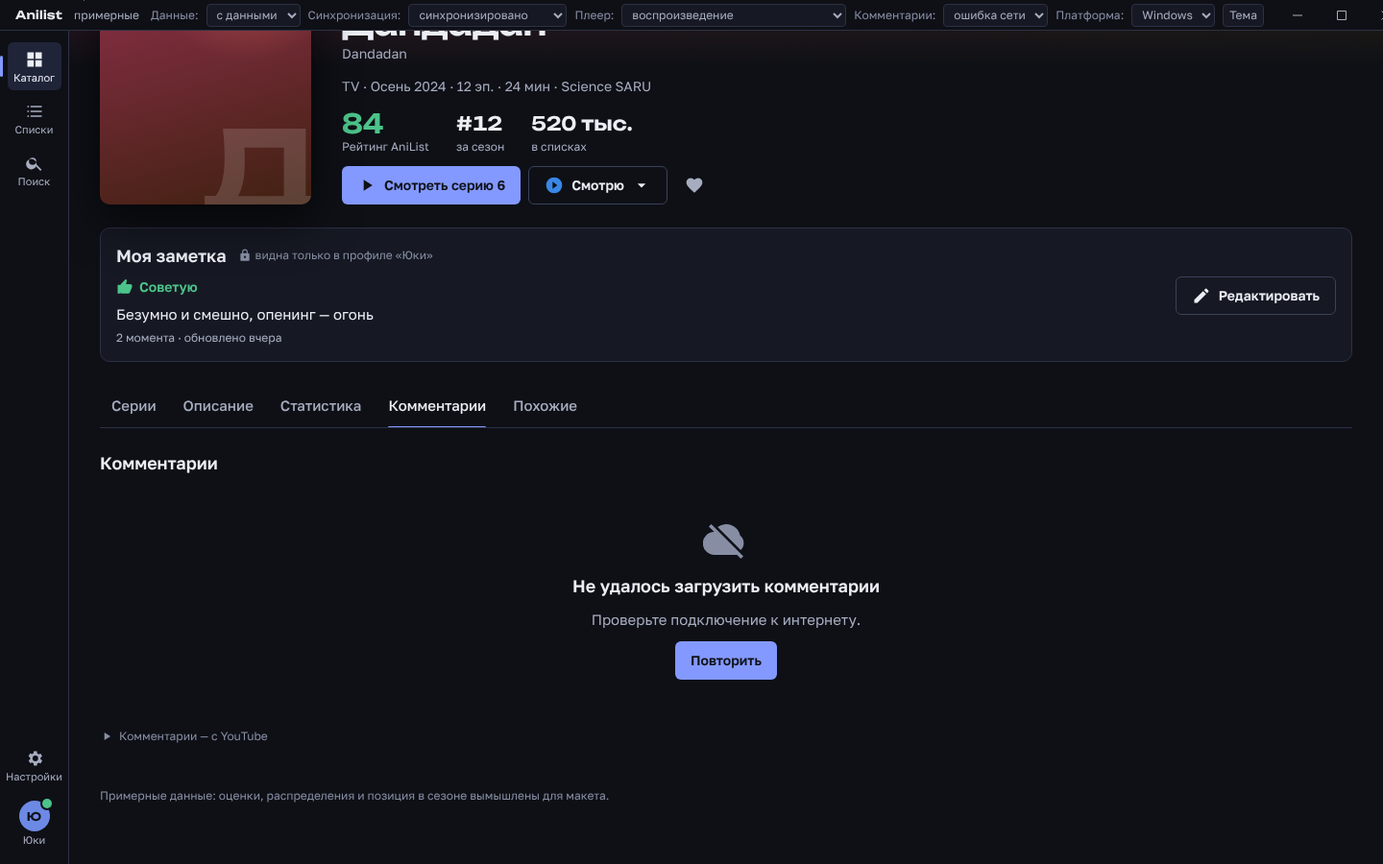
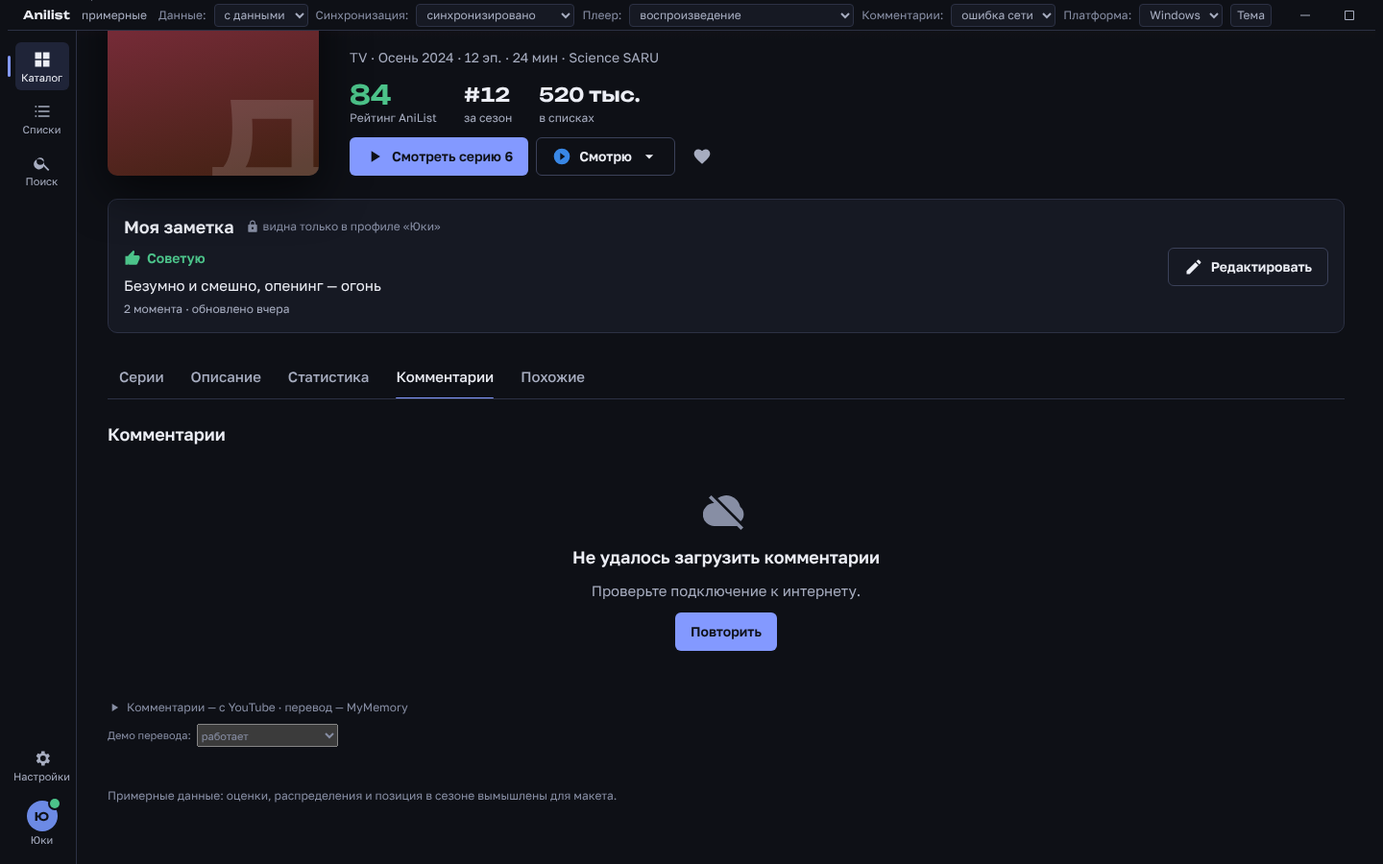
design: перевод комментариев YouTube на русский; viewport в прототипе для открытия напрямую на телефоне
Claude-Session: https://claude.ai/code/session_014SLhsG472wUjxdzf1dwfhU

diff --git a/design/prototype/index.html b/design/prototype/index.html
@@ -1,5 +1,6 @@
 <title>Ai — прототип</title>
 <meta name="claude:viewport-fit-sides" content="cover">
+<meta name="viewport" content="width=device-width, initial-scale=1, viewport-fit=cover">
 <link rel="preconnect" href="https://fonts.googleapis.com">
 <link rel="preconnect" href="https://fonts.gstatic.com" crossorigin>
 <link rel="stylesheet" href="https://fonts.googleapis.com/css2?family=Golos+Text:wght@400;500;600&family=Unbounded:wght@500;600&display=swap">
@@ -551,11 +552,28 @@ h3 { font: 600 18px/24px var(--f-text); margin: 0; }
 .ylink:hover { text-decoration: underline; }
 .cmore { margin-top: 12px; }
 .spin.sm { width: 16px; height: 16px; border-width: 2px; }
+.ltag { font-size: 11px; padding: 0 6px; border-radius: var(--r-pill); background: var(--s2); color: var(--fg2); }
+.tr-btn { color: var(--accent); }
+.tr-btn svg, .tr-label svg { width: 16px; height: 16px; }
+.tr-box { display: grid; gap: 6px; justify-items: start; padding: 10px 12px; border-radius: var(--r-sm); background: var(--s2); max-width: 65ch; font-size: 14px; }
+.tr-box p { margin: 0; color: var(--fg); }
+.tr-box .more { margin-left: -6px; }
+.tr-label { display: inline-flex; gap: 6px; align-items: center; font-size: 12px; color: var(--fg2); }
+.tr-box.warn { display: flex; align-items: center; color: var(--warn); }
+.tr-box.err { display: flex; align-items: center; gap: 8px; flex-wrap: wrap; color: var(--bad); }
+.tr-box.warn svg, .tr-box.err svg { width: 18px; height: 18px; flex: none; }
+.pbar { display: block; width: 100%; height: 6px; border-radius: 3px; background: var(--s3); overflow: hidden; }
+.pbar i { display: block; height: 100%; background: var(--accent); transition: width .25s var(--ease); }
+.tr-notice { display: flex; gap: 10px; align-items: center; flex-wrap: wrap; padding: 12px 14px; margin-bottom: 12px; border: 1px solid var(--border-strong); border-radius: var(--r-md); background: var(--s2); max-width: 760px; }
+.tr-notice > span { flex: 1 1 260px; }
+.tr-notice svg { width: 18px; height: 18px; color: var(--fg2); }
+.tr-demo { display: flex; gap: 6px; align-items: center; margin-top: 6px; }
+.tr-demo select { font-size: 11px; height: 24px; }
 .com-src { display: flex; gap: 6px; align-items: center; font-size: 12px; color: var(--fg3); margin: 16px 0 0; }
 .com-src svg { width: 14px; height: 14px; }
 .state.small { padding: 32px 16px; }
 .state .btn svg { width: 18px; height: 18px; color: inherit; }
-.player .ytcom { --bg:#0E1016; --s1:#161923; --s2:#1E2230; --s3:#272C3D; --border:#2C3144; --border-strong:#3B4159; --fg:#ECEEF5; --fg2:#A7ADC0; --fg3:#878EA4; --accent:#8399FF; --accent-soft:#8399FF26; --skel:#1E2230; --skel-shine:#272C3D; --hover:#ECEEF50F; color-scheme: dark; color: var(--fg); background: var(--s1); grid-column: 1; overflow-y: auto; padding: 12px max(16px, env(safe-area-inset-right, 0px)) 12px max(16px, env(safe-area-inset-left, 0px)); border-top: 1px solid #FFFFFF14; }
+.player .ytcom { --bg:#0E1016; --s1:#161923; --s2:#1E2230; --s3:#272C3D; --border:#2C3144; --border-strong:#3B4159; --fg:#ECEEF5; --fg2:#A7ADC0; --fg3:#878EA4; --accent:#8399FF; --accent-soft:#8399FF26; --good:#4CC38A; --warn:#E3A73B; --bad:#F27B7B; --skel:#1E2230; --skel-shine:#272C3D; --hover:#ECEEF50F; color-scheme: dark; color: var(--fg); background: var(--s1); grid-column: 1; overflow-y: auto; padding: 12px max(16px, env(safe-area-inset-right, 0px)) 12px max(16px, env(safe-area-inset-left, 0px)); border-top: 1px solid #FFFFFF14; }
 .player.yt.has-com { grid-template-rows: auto minmax(0, 1fr) auto minmax(0, 42%); }
 .player.yt.has-com.has-eps .eppanel { grid-row: 2 / 5; }
 .app.m .player.yt.has-com { grid-template-rows: auto minmax(0, 1fr) auto minmax(0, 50%); }
@@ -844,6 +862,7 @@ const I = {
   edit:'M3 17.2V21h3.8l11-11-3.8-3.8zM20.7 7a1 1 0 0 0 0-1.4l-2.3-2.3a1 1 0 0 0-1.4 0l-1.8 1.8 3.8 3.8z',
   dash:'M5 11h14v2H5z',
   chat:'M20 2H4a2 2 0 0 0-2 2v18l4-4h14a2 2 0 0 0 2-2V4a2 2 0 0 0-2-2zM6 9h12v2H6zm8 5H6v-2h8zm4-6H6V6h12z',
+  translate:'M12.9 15.1 10.3 12.6v-.1A17.6 17.6 0 0 0 14 6h3V4h-7V2H8v2H1v2h11.2A15.7 15.7 0 0 1 9 11.4 15.6 15.6 0 0 1 6.7 8H4.7a17.6 17.6 0 0 0 3 4.6L2.6 17.6 4 19l5-5 3.1 3.1zM18.5 10h-2L12 22h2l1.1-3h4.8l1.1 3h2zm-2.6 7 1.6-4.3 1.6 4.3z',
   full_exit:'M5 16h3v3h2v-5H5zm3-8H5v2h5V5H8zm6 11h2v-3h3v-2h-5zm2-11V5h-2v5h5V8z',
   heart:'M12 21.4 10.6 20C5.4 15.4 2 12.3 2 8.5A5.4 5.4 0 0 1 7.5 3 6 6 0 0 1 12 5a6 6 0 0 1 4.5-2A5.4 5.4 0 0 1 22 8.5c0 3.8-3.4 6.9-8.6 11.5z',
   plus:'M19 13h-6v6h-2v-6H5v-2h6V5h2v6h6z', skip:'M4 18l8.5-6L4 6zm9-12v12l8.5-6z',
@@ -1160,29 +1179,67 @@ const COMMENTS = [
   { a:'Тимур', h:100, d:'12 часов назад', likes:12, top:3, t:'Субтитры отличные, спасибо переводчикам.' },
   { a:'lofi_lena', h:310, d:'1 час назад', likes:4, top:1, t:'Возвращаюсь пересматривать этот момент уже третий раз.' },
 ];
+// Комментарии на других языках: перевод на русский по кнопке (тексты и переводы примерные)
+COMMENTS.push(
+  { a:'Hiro_88', h:10, d:'неделю назад', likes:980, top:11, lang:'ja', t:'オープニングが最高すぎて毎回飛ばせない。作画も音楽も完璧。', tr:'Опенинг настолько хорош, что каждый раз не могу его пропустить. И рисовка, и музыка — идеальны.' },
+  { a:'sam_watches', h:190, d:'неделю назад', likes:540, top:12, lang:'en', t:'The animation in the chase scene is unreal. I had to rewatch it three times to catch everything.', tr:'Анимация в сцене погони нереальная. Пришлось пересмотреть три раза, чтобы всё уловить.' },
+  { a:'lucia.anime', h:300, d:'8 дней назад', likes:221, top:13, lang:'es', t:'¡No puedo esperar al próximo episodio, qué locura!', tr:'Не могу дождаться следующей серии, это безумие!' },
+);
+const LANG_FROM = { en:'английского', ja:'японского', es:'испанского' };
+const LANG_TAG = { en:'англ.', ja:'яп.', es:'исп.' };
+// Состояние перевода по комментарию: loading | pack | packing | done | error | limit
+const TR = { st:{}, showOrig:new Set(), consent:false, pending:null, pack:{} };
 const MORE = [
   { a:'Сергей', h:170, d:'неделю назад', likes:96, top:9, t:'Главное — не читать комментарии до просмотра :)' },
   { a:'nekoyama', h:240, d:'неделю назад', likes:51, top:10, t:'Саундтрек уже в плейлисте.' },
 ];
-const C = { sort:'top', open:new Set(), more:false, loadingMore:false };
+const C = { trDemo:'ok', sort:'top', open:new Set(), more:false, loadingMore:false };
 function commentsView() {
   const st = $('#demoComments').value;
-  const head = `<div class="com-head"><h3>Комментарии${st === 'ok' ? ' <span class="count">' + (C.more ? 10 : 8) + ' из 1 284</span>' : ''}</h3>
+  const head = `<div class="com-head"><h3>Комментарии${st === 'ok' ? ' <span class="count">' + (COMMENTS.length + (C.more ? MORE.length : 0)) + ' из 1 284</span>' : ''}</h3>
     ${st === 'ok' || st === 'loading' ? `<div class="seg" role="group" aria-label="Сортировка комментариев"><button type="button" data-csort="top" aria-pressed="${C.sort === 'top'}">По популярности</button><button type="button" data-csort="new" aria-pressed="${C.sort === 'new'}">По времени</button></div>` : ''}</div>`;
-  const foot = `<p class="com-src">${ic('play')}Комментарии — с YouTube</p>`;
+  const foot = `<p class="com-src">${ic('play')}Комментарии — с YouTube${isMob() ? ' · перевод выполняется на устройстве' : ' · перевод — MyMemory'}</p>
+    <label class="cap demo-fail tr-demo">Демо перевода: <select id="trDemo"><option value="ok"${C.trDemo === 'ok' ? ' selected' : ''}>работает</option><option value="pack"${C.trDemo === 'pack' ? ' selected' : ''}>нужен пакет (телефон)</option><option value="limit"${C.trDemo === 'limit' ? ' selected' : ''}>лимит исчерпан (ПК)</option><option value="error"${C.trDemo === 'error' ? ' selected' : ''}>ошибка сети</option></select></label>`;
+  const notice = !isMob() && TR.pending && !TR.consent ? `<div class="tr-notice" role="alert">${ic('lock')}<span>Текст комментария отправляется на сервер MyMemory для перевода.</span><button class="btn btn-filled" type="button" data-act="trOk">Понятно</button><button class="btn btn-text" type="button" data-act="trNo">Не переводить</button></div>` : '';
   if (st === 'loading') return head + `<div class="com-list" aria-busy="true">${Array.from({length:4}, () => `<div class="com skel-row"><span class="skel av"></span><div style="display:grid;gap:6px;flex:1"><span class="skel" style="height:12px;width:30%"></span><span class="skel" style="height:12px;width:90%"></span><span class="skel" style="height:12px;width:70%"></span></div></div>`).join('')}</div>` + foot;
   if (st === 'empty') return head + `<div class="state small">${ic('chat')}<h3>Комментариев пока нет</h3><div>Будьте первым — комментарии пишутся на YouTube.</div><a class="btn btn-outline" href="https://www.youtube.com/" target="_blank" rel="noopener" style="text-decoration:none">${ic('ext')}Открыть на YouTube</a></div>` + foot;
   if (st === 'off') return head + `<div class="state small">${ic('DROPPED')}<h3>Комментарии отключены для этого видео</h3><div>Так решил правообладатель на YouTube.</div></div>` + foot;
   if (st === 'error') return head + `<div class="state small">${ic('cloud_off')}<h3>Не удалось загрузить комментарии</h3><div>Проверьте подключение к интернету.</div><button class="btn btn-filled" type="button" data-act="cRetry">Повторить</button></div>` + foot;
   // «По времени»: top — порядковый номер от самого нового
   const list = COMMENTS.concat(C.more ? MORE : []).slice().sort((x, y) => C.sort === 'top' ? y.likes - x.likes : x.top - y.top);
-  return head + `<div class="com-list">${list.map((c, i) => { const id = c.a, open = C.open.has(id);
+  return head + notice + `<div class="com-list">${list.map((c, i) => { const id = c.a, open = C.open.has(id);
     return `<article class="com"><span class="av" style="background:hsl(${c.h} 55% 55%)" aria-hidden="true">${esc(c.a[0].toUpperCase())}</span>
-      <div class="cbody"><div class="cmeta"><b>${esc(c.a)}</b><span>${esc(c.d)}</span></div>
-        <p class="ctext${open ? ' open' : ''}" id="ct-${i}">${esc(c.t)}</p>
+      <div class="cbody"><div class="cmeta"><b>${esc(c.a)}</b><span>${esc(c.d)}</span>${c.lang ? `<span class="ltag" title="Язык комментария">${LANG_TAG[c.lang]}</span>` : ''}</div>
+        ${c.lang && TR.st[id] === 'done' && !TR.showOrig.has(id) ? '' : `<p class="ctext${open ? ' open' : ''}" id="ct-${i}" ${c.lang ? `lang="${c.lang}"` : ''}>${esc(c.t)}</p>`}
+        ${c.lang ? trBlock(c) : ''}
         ${c.t.length > 140 ? `<button class="btn btn-text more" type="button" data-cmore="${esc(id)}" aria-expanded="${open}" aria-controls="ct-${i}">${open ? 'Свернуть' : 'Ещё'}</button>` : ''}
         <div class="cacts"><span class="likes">${ic('thumb_up')}<span class="num">${c.likes.toLocaleString('ru-RU')}</span></span><a class="ylink" href="https://www.youtube.com/" target="_blank" rel="noopener">${ic('ext')}Открыть на YouTube</a></div></div></article>`; }).join('')}</div>
     ${C.more ? '' : `<button class="btn btn-outline cmore" type="button" data-act="cMore" ${C.loadingMore ? 'disabled' : ''}>${C.loadingMore ? '<span class="spin sm"></span>Загружаем…' : 'Показать ещё'}</button>`}` + foot;
+}
+function trBlock(c) {
+  const id = c.a, st = TR.st[id], via = isMob() ? 'на устройстве' : 'MyMemory';
+  if (!st) return `<button class="btn btn-text more tr-btn" type="button" data-tr="${esc(id)}">${ic('translate')}Перевести на русский</button>`;
+  if (st === 'wait') return `<div class="tr-box cap">Ждём подтверждения выше…</div>`;
+  if (st === 'loading') return `<div class="tr-box" aria-busy="true"><span class="skel" style="height:12px;width:92%"></span><span class="skel" style="height:12px;width:64%"></span><span class="cap">Переводим с ${LANG_FROM[c.lang]}…</span></div>`;
+  if (st === 'done') return `<div class="tr-box done" lang="ru"><span class="tr-label">${ic('translate')}Перевод с ${LANG_FROM[c.lang]} · ${via}</span><p>${esc(c.tr)}</p>
+    <button class="btn btn-text more" type="button" data-trorig="${esc(id)}" aria-pressed="${TR.showOrig.has(id)}">${TR.showOrig.has(id) ? 'Скрыть оригинал' : 'Показать оригинал'}</button></div>`;
+  if (st === 'pack') return `<div class="tr-box"><span>Для перевода с ${LANG_FROM[c.lang]} нужен языковой пакет на устройстве (≈ 30 МБ). Перевод выполняется на устройстве, текст никуда не отправляется.</span><button class="btn btn-outline" type="button" data-trpack="${esc(id)}">${ic('cloud_up')}Скачать пакет перевода</button></div>`;
+  if (st === 'packing') { const v = TR.pack[c.lang] || 0; return `<div class="tr-box"><span>Скачиваем пакет «${LANG_TAG[c.lang]} → рус.» · <b class="num">${v}%</b></span><span class="pbar" role="progressbar" aria-valuemin="0" aria-valuemax="100" aria-valuenow="${v}"><i style="width:${v}%"></i></span></div>`; }
+  if (st === 'limit') return `<div class="tr-box warn">${ic('PAUSED')}<span>Лимит перевода исчерпан, попробуйте завтра.</span></div>`;
+  if (st === 'error') return `<div class="tr-box err">${ic('cloud_off')}<span>Не удалось перевести: нет сети.</span><button class="btn btn-text more" type="button" data-tr="${esc(id)}">Повторить</button></div>`;
+  return '';
+}
+function runTranslate(id) {
+  const c = COMMENTS.concat(MORE).find(x => x.a === id); if (!c) return;
+  if (!isMob() && !TR.consent) { TR.pending = id; TR.st[id] = 'wait'; paintComments(); return; }
+  if (isMob() && C.trDemo === 'pack' && (TR.pack[c.lang] || 0) < 100) { TR.st[id] = 'pack'; paintComments(); return; }
+  if (!isMob() && C.trDemo === 'limit') { TR.st[id] = 'limit'; paintComments(); return; }
+  TR.st[id] = 'loading'; paintComments();
+  setTimeout(() => { TR.st[id] = C.trDemo === 'error' ? 'error' : 'done'; paintComments(); }, 700);
+}
+function downloadPack(id) {
+  const c = COMMENTS.concat(MORE).find(x => x.a === id); TR.st[id] = 'packing'; TR.pack[c.lang] = 0; paintComments();
+  const iv = setInterval(() => { TR.pack[c.lang] = Math.min(100, TR.pack[c.lang] + 20); if (TR.pack[c.lang] >= 100) { clearInterval(iv); runTranslate(id); } else paintComments(); }, 300);
 }
 function paintComments() { document.querySelectorAll('.comments-wrap, .ytcom').forEach(w => { w.innerHTML = commentsView(); }); }
 
@@ -1649,6 +1706,11 @@ document.addEventListener('click', e => {
   else if (d.pfdel) { const p = prof(d.pfdel); PROFILES.splice(PROFILES.indexOf(p), 1); closeDialog(); render(); toast(`Профиль «${p.name}» удалён с устройства${p.gh ? '. Gist на GitHub не тронут' : ''}`); }
   else if (d.act === 'retry') { $('#demoState').value = 'loading'; render(); setTimeout(() => { $('#demoState').value = 'data'; render(); }, 900); }
   else if (d.tab) { S.tab = d.tab; render(); }
+  else if (d.tr) runTranslate(d.tr);
+  else if (d.act === 'trOk') { TR.consent = true; const id = TR.pending; TR.pending = null; runTranslate(id); }
+  else if (d.act === 'trNo') { delete TR.st[TR.pending]; TR.pending = null; paintComments(); }
+  else if (d.trorig) { TR.showOrig.has(d.trorig) ? TR.showOrig.delete(d.trorig) : TR.showOrig.add(d.trorig); paintComments(); }
+  else if (d.trpack) downloadPack(d.trpack);
   else if (d.csort) { C.sort = d.csort; paintComments(); }
   else if (d.cmore) { C.open.has(d.cmore) ? C.open.delete(d.cmore) : C.open.add(d.cmore); paintComments(); }
   else if (d.act === 'cMore') { C.loadingMore = true; paintComments(); setTimeout(() => { C.loadingMore = false; C.more = true; paintComments(); }, 700); }
@@ -1734,6 +1796,7 @@ document.addEventListener('click', e => { if (!e.target.closest('#pmenu') && !e.
 document.addEventListener('change', e => {
   if (e.target.id === 'sort') { S.sort = e.target.value; render(); }
   if (e.target.id === 'demoPlatform') render();
+  if (e.target.id === 'trDemo') { C.trDemo = e.target.value; TR.st = {}; TR.showOrig.clear(); TR.pack = {}; TR.pending = null; paintComments(); }
   if (e.target.id === 'demoComments') { C.more = false; paintComments(); }
   if (e.target.id === 'nFail') E.failNext = e.target.checked;
   if (e.target.id === 'demoPlayer' && e.target.value === 'play') P.playing = true;

diff --git a/design/prototype/comments.test.js b/design/prototype/comments.test.js
@@ -12,19 +12,39 @@ for(const th of (shots?['dark','light']:['dark']))for(const [vn,o,k] of V){const
  const shot=async n=>{if(shots)await p.screenshot({path:OUT+n+'-'+k+th+'.png'})};
  const res=[];const T=async(n,f)=>{try{res.push([n,(await f())?'OK':'FAIL'])}catch(e){res.push([n,'FAIL '+e.message.split('\n')[0].slice(0,80)])}};
  await p.goto('file://'+SP+'#title');await p.waitForTimeout(600);
- await T('Вкладка есть у тайтла с YouTube',async()=>{await click('[data-ttab=comments]');await ev(()=>window.scrollTo(0,0));await ev(()=>{const t=document.querySelector('.comments-wrap');t.scrollIntoView({block:'start'})});await shot('110-comments-title');return await ev(()=>document.querySelectorAll('.com').length===8)});
+ await T('Вкладка есть у тайтла с YouTube',async()=>{await click('[data-ttab=comments]');await ev(()=>window.scrollTo(0,0));await ev(()=>{const t=document.querySelector('.comments-wrap');t.scrollIntoView({block:'start'})});await shot('110-comments-title');return await ev(()=>document.querySelectorAll('.com').length===11)});
  await T('Сортировка «По времени»',async()=>{await click('[data-csort=new]');return await ev(()=>document.querySelector('.com b').textContent==='lofi_lena')});
  await T('Сортировка «По популярности»',async()=>{await click('[data-csort=top]');return await ev(()=>document.querySelector('.com b').textContent==='Мария К.')});
  await T('«Ещё» раскрывает и сворачивает',async()=>{await click('[data-cmore="kenji_fan"]');const o1=await ev(()=>document.querySelector('[data-cmore="kenji_fan"]').getAttribute('aria-expanded')==='true');await shot('111-comments-expanded');await click('[data-cmore="kenji_fan"]');return o1&&await ev(()=>document.querySelector('[data-cmore="kenji_fan"]').textContent==='Ещё')});
- await T('«Показать ещё» подгружает',async()=>{await click('[data-act=cMore]');const l=await ev(()=>/Загружаем/.test(document.querySelector('.cmore').textContent));await p.waitForTimeout(900);return l&&await ev(()=>document.querySelectorAll('.com').length===10)});
+ await T('«Показать ещё» подгружает',async()=>{await click('[data-act=cMore]');const l=await ev(()=>/Загружаем/.test(document.querySelector('.cmore').textContent));await p.waitForTimeout(900);return l&&await ev(()=>document.querySelectorAll('.com').length===13)});
  await T('Ссылка «Открыть на YouTube»',async()=>await ev(()=>{const a=document.querySelector('.com .ylink');return a.target==='_blank'&&/youtube\.com/.test(a.href)}));
  await T('Подпись «Комментарии — с YouTube»',async()=>await ev(()=>/Комментарии — с YouTube/.test(document.querySelector('.com-src').textContent)));
  for(const [st,txt,n] of [['loading',null,'112-comments-loading'],['empty','Комментариев пока нет','113-comments-empty'],['off','Комментарии отключены для этого видео','114-comments-disabled'],['error','Не удалось загрузить','115-comments-error']])
   await T('Состояние '+st,async()=>{await setSel('demoComments',st);await shot(n);return txt?await ev(t=>document.querySelector('.comments-wrap').textContent.includes(t),txt):await ev(()=>document.querySelectorAll('.skel-row').length===4)});
- await T('Ошибка → Повторить',async()=>{await click('[data-act=cRetry]');await p.waitForTimeout(1000);return await ev(()=>document.querySelectorAll('.com').length>=8)});
+ await T('Ошибка → Повторить',async()=>{await click('[data-act=cRetry]');await p.waitForTimeout(1000);return await ev(()=>document.querySelectorAll('.com').length>=11)});
  await T('Нет вкладки без YouTube',async()=>{await ev(()=>{S.titleId=4;location.hash='catalog'});await p.waitForTimeout(200);await ev(()=>{location.hash='title'});await p.waitForTimeout(300);return await ev(()=>!document.querySelector('[data-ttab=comments]'))});
- await T('Плеер YouTube: панель под видео',async()=>{await ev(()=>{S.titleId=1;location.hash='player'});await p.waitForTimeout(300);await setSel('demoPlayer','yt');await click('[data-act=ytComments]');await shot('116-comments-player');return await ev(()=>{const c=document.querySelector('.ytcom').getBoundingClientRect(),v=document.querySelector('.yt-stage').getBoundingClientRect();return c.top>=v.bottom-1&&document.querySelectorAll('.ytcom .com').length>=8})});
+ await T('Плеер YouTube: панель под видео',async()=>{await ev(()=>{S.titleId=1;location.hash='player'});await p.waitForTimeout(300);await setSel('demoPlayer','yt');await click('[data-act=ytComments]');await shot('116-comments-player');return await ev(()=>{const c=document.querySelector('.ytcom').getBoundingClientRect(),v=document.querySelector('.yt-stage').getBoundingClientRect();return c.top>=v.bottom-1&&document.querySelectorAll('.ytcom .com').length>=11})});
  await T('Плеер: закрыть панель',async()=>{await click('[data-act=ytComments]');return await ev(()=>!document.querySelector('.ytcom'))});
+
+ // ---- перевод на русский ----
+ const mobile=!!o.hasTouch;
+ await ev(()=>{S.titleId=1;S.titleTab='comments';location.hash='catalog'});await p.waitForTimeout(150);await ev(()=>{location.hash='title'});await p.waitForTimeout(300);await setSel('demoComments','ok');
+ const scrollTo=async id=>ev(id=>{const b=document.querySelector(`[data-tr="${id}"]`)||document.querySelector('.tr-box');(b||document.querySelector('.comments-wrap')).scrollIntoView({block:'center'})},id);
+ await T('Кнопка «Перевести» только у иностранных',async()=>await ev(()=>document.querySelectorAll('[data-tr]').length===3&&!document.querySelector('.com:first-child [data-tr]')));
+ if(!mobile){
+  await T('ПК: пометка MyMemory перед первым переводом',async()=>{await scrollTo('sam_watches');await click('[data-tr="sam_watches"]');await ev(()=>document.querySelector('.tr-notice').scrollIntoView({block:'center'}));await shot('120-tr-notice');return await ev(()=>/MyMemory/.test(document.querySelector('.tr-notice').textContent))});
+  await T('ПК: «Понятно» → идёт перевод',async()=>{await click('[data-act=trOk]');await scrollTo('sam_watches');await shot('121-tr-loading');return await ev(()=>TR.st['sam_watches']==='loading'&&!document.querySelector('.tr-notice'))});
+  await T('ПК: перевод готов',async()=>{await p.waitForTimeout(800);await scrollTo('sam_watches');await shot('122-tr-done');return await ev(()=>/Анимация в сцене погони/.test(document.querySelector('.tr-box.done').textContent)&&/MyMemory/.test(document.querySelector('.tr-box.done').textContent))});
+  await T('ПК: «Показать оригинал»',async()=>{await click('[data-trorig="sam_watches"]');const a=await ev(()=>!!document.querySelector('p[lang=en]'));await shot('123-tr-original');await click('[data-trorig="sam_watches"]');return a&&await ev(()=>!document.querySelector('p[lang=en]'))});
+  await T('ПК: пометка только один раз',async()=>{await click('[data-tr="Hiro_88"]');return await ev(()=>!document.querySelector('.tr-notice'))});
+  await T('ПК: лимит исчерпан',async()=>{await setSel('trDemo','limit');await scrollTo('lucia.anime');await click('[data-tr="lucia.anime"]');await shot('124-tr-limit');return await ev(()=>/Лимит перевода исчерпан, попробуйте завтра/.test(document.querySelector('.tr-box.warn').textContent))});
+ } else {
+  await T('Телефон: без пометки MyMemory, «на устройстве»',async()=>{await setSel('trDemo','pack');await scrollTo('sam_watches');await click('[data-tr="sam_watches"]');await shot('125-tr-pack');return await ev(()=>!document.querySelector('.tr-notice')&&/на устройстве/.test(document.querySelector('.com-src').textContent)&&/Скачать пакет перевода/.test(document.querySelector('.tr-box').textContent))});
+  await T('Телефон: скачивание пакета с прогрессом',async()=>{await click('[data-trpack="sam_watches"]');await p.waitForTimeout(450);const pr=await ev(()=>{const b=document.querySelector('[role=progressbar]');return b&&+b.getAttribute('aria-valuenow')});await scrollTo('sam_watches');await shot('126-tr-pack-progress');await p.waitForTimeout(2200);return pr>0&&pr<100&&await ev(()=>TR.st['sam_watches']==='done'&&/на устройстве/.test(document.querySelector('.tr-box.done').textContent))});
+  await T('Телефон: перевод готов',async()=>{await scrollTo('sam_watches');await shot('127-tr-done-device');return await ev(()=>!!document.querySelector('.tr-box.done'))});
+ }
+ await T('Ошибка сети → Повторить',async()=>{await setSel('trDemo','error');if(!mobile)await ev(()=>{TR.consent=true});await scrollTo('lucia.anime');await click('[data-tr="lucia.anime"]');await p.waitForTimeout(800);await shot('128-tr-error');const e=await ev(()=>!!document.querySelector('.tr-box.err'));await setSel('trDemo','ok');if(!mobile)await ev(()=>{TR.consent=true});await click('[data-tr="lucia.anime"]');await p.waitForTimeout(800);return e&&await ev(()=>TR.st['lucia.anime']==='done')});
+ await setSel('trDemo','ok');
  await ev(()=>{document.querySelector('#demoPlayer').value='play'});
  const bad=res.filter(r=>r[1]!=='OK');fails+=bad.length;console.log(th,vn,bad.length?bad:'все '+res.length+' OK',errs);await ctx.close();}
 await b.close();process.exitCode=fails?1:0;})();

diff --git a/design/README.md b/design/README.md
@@ -7,7 +7,7 @@
 | `tokens.json` | Цвета (тёмная и светлая темы), статусы списков, типографика, отступы, радиусы, сетка, анимации, состояния. Источник правды для темы |
 | `screens.md` | Каталог, Мои списки, Карточка аниме, Плеер, Вход через GitHub, Синхронизация, Поиск, Настройки, iOS и Android (§8): структура, поведение, состояния |
 | `components.md` | Компоненты, правила hover / pressed / focus / disabled / loading / empty / error и соответствие Flutter-виджетам |
-| `screenshots/` | 204 PNG (комментарии — 110–116; заметки — 100–108; режим YouTube — 90–99b; альбомная ориентация телефона — 82–87; верхняя панель на телефоне — 80–81; плеер на реальных данных — 60–75; профили — 50–58; плеер: обычный вид и полный экран — 10/10a, 35/35a, 45/45a; «Что играет» — 10b–10f, 35b, 45b): Windows 01–20 (1440×900), iOS 31–39 и Android 41–49 (390×844, плеер 844×390), обе темы |
+| `screenshots/` | 224 PNG (перевод комментариев — 120–128; комментарии — 110–116; заметки — 100–108; режим YouTube — 90–99b; альбомная ориентация телефона — 82–87; верхняя панель на телефоне — 80–81; плеер на реальных данных — 60–75; профили — 50–58; плеер: обычный вид и полный экран — 10/10a, 35/35a, 45/45a; «Что играет» — 10b–10f, 35b, 45b): Windows 01–20 (1440×900), iOS 31–39 и Android 41–49 (390×844, плеер 844×390), обе темы |
 | `prototype/index.html` | Интерактивный прототип четырёх экранов (примерные данные). Опубликован: https://claude.ai/artifact/RtfiteUewK8GpJdGGu6Vue |
 
 ## Визуальное направление
@@ -127,6 +127,11 @@
 
 49. **Третий проход аудита плеера.** Головной чат открывал `index.html` как есть, без обёртки публикации; там `[hidden]` проигрывал собственным `display` у панели серий и меню, и «скрытые» панели закрывали кнопки (33 перекрытия на 8e4e0c1, 14 — на 30506a7). В прототип добавлено `[hidden]{display:none!important;pointer-events:none!important}`, все тесты переведены на файл как есть, добавлен `player-click.test.js` (метод головного чата). После: 0 перекрытий, все тесты прошли. Таблица — `player-audit.md`, «Третий проход». **Для кодинга:** то же правило в Flutter — скрытая панель не должна оставаться в дереве поверх кнопок (`Visibility`/`Offstage` вместо прозрачности, `IgnorePointer` для анимированного скрытия).
 
+**2026-10-30 — перевод комментариев YouTube на русский**
+
+50. **Перевод по кнопке** у комментариев не на русском (метка языка у даты). Перевод под комментарием, оригинал скрыт до «Показать оригинал». На ПК — MyMemory, с одноразовой плашкой «Текст комментария отправляется на сервер MyMemory для перевода» / «Понятно»; на телефоне — на устройстве, с языковым пакетом (скачивание с прогрессом). Состояния: идёт перевод, готов, нужен пакет, лимит исчерпан (ПК), ошибка сети с «Повторить». **Для кодинга:** ПК — MyMemory API (`/get?q=…&langpair=xx|ru`), согласие храним в настройках устройства; телефон — ML Kit On-device Translation (Android) / Apple Translation (iOS), пакеты по запросу.
+51. **Прототип открывается напрямую на телефоне корректно**: в файл добавлен свой `<meta name="viewport">`. Без него файл, открытый не через опубликованную ссылку, рисовался на телефоне в десктопной ширине 980 px, и телефонные прогоны тестов на «файле как есть» шли в десктопной раскладке. После добавления все тесты перепрогнаны.
+
 ## Проверка по браузерам
 
 | Браузер | Движок | Как проверено | Результат |
@@ -154,6 +159,8 @@
 | Заметка: системные контролы iOS/Android (push-экран, полноэкранный диалог M3) | только описано |
 | Комментарии YouTube: вкладка на карточке (есть/нет ролика), сортировка, «Ещё»/«Свернуть», «Показать ещё», ссылка на YouTube, подпись, состояния загрузка/пусто/отключены/ошибка + повтор, панель под видео в плеере | проверено на прототипе: `prototype/comments.test.js`, 15 проверок × ПК/телефон × 2 темы, все прошли; скриншоты 110–116. Регрессия плеера после добавления кнопки: раскладка 0 перекрытий, кнопки 285/285 |
 | Ответы на комментарии, реальные аватары, квоты API | только описано |
+| Перевод комментариев: кнопка только у иностранных, плашка MyMemory один раз (ПК), идёт перевод, готов, «Показать/Скрыть оригинал», лимит (ПК), пакет + прогресс + «на устройстве» (телефон), ошибка + «Повторить» | проверено на прототипе: `prototype/comments.test.js` — 23 проверки на ПК, 20 на телефоне 390×844, обе темы, все прошли; скриншоты 120–128 |
+| Реальные MyMemory / ML Kit / Apple Translation, размер пакетов | только описано |
 | Плеер на реальных данных: загрузка, буферизация, видео недоступно (+ выбор озвучки), источники не подключены (+ ручная отметка), панель «Серии» с сезонами, недоступная озвучка, полный экран, карточка тайтла без источников | проверено на прототипе (Chromium), скриншоты 60–75 |
 | Карточка следующей серии без источника, отсутствие данных об опенинге | только описано |
 | Режим «официальное видео YouTube»: воспроизведение, конец ролика, нет видео для серии (+ панель серий), недоступно в регионе, без встроенного плеера, полный экран, iOS/Android, телефон 844×390 | проверено на прототипе (Chromium), скриншоты 90–99b. Сам встроенный плеер YouTube в прототипе — нейтральная заглушка |

diff --git a/design/screens.md b/design/screens.md
@@ -432,3 +432,25 @@
 | Ошибка сети | «Не удалось загрузить комментарии. Проверьте подключение к интернету» | «Повторить» |
 
 В плеере панель всегда тёмная (как сам плеер), на карточке тайтла — в текущей теме.
+
+### 13.1 Перевод комментариев на русский
+
+**Кнопка.** У комментария не на русском — метка языка рядом с датой («англ.», «яп.», «исп.») и под текстом «Перевести на русский» (`translate`, цвет `accent`). У русских комментариев кнопки нет.
+
+**Готовый перевод** — под комментарием, на `surface2` со скруглением sm: подпись «Перевод с английского · MyMemory» (ПК) или «· на устройстве» (телефон), текст перевода (`lang="ru"`), переключатель «Показать оригинал» / «Скрыть оригинал». Пока перевод показан, оригинал скрыт; «Показать оригинал» возвращает его над переводом.
+
+**Где переводится.**
+- **ПК — сервер MyMemory.** Перед первым переводом в сессии над списком плашка: «Текст комментария отправляется на сервер MyMemory для перевода» + «Понятно» (перевод запускается) / «Не переводить». После «Понятно» плашка больше не появляется (флаг в настройках устройства).
+- **Телефон — на устройстве.** Плашки нет; подпись внизу: «Комментарии — с YouTube · перевод выполняется на устройстве». Нужен языковой пакет на пару «язык → русский».
+
+**Состояния**
+
+| Состояние | Что видно | Действия |
+|---|---|---|
+| Идёт перевод | две строки-скелетона + «Переводим с английского…» | — |
+| Перевод готов | блок перевода с подписью источника | «Показать оригинал» / «Скрыть оригинал» |
+| Нет языкового пакета (телефон) | «Для перевода с английского нужен языковой пакет на устройстве (≈ 30 МБ). Перевод выполняется на устройстве, текст никуда не отправляется» | «Скачать пакет перевода» → полоса прогресса «Скачиваем пакет «англ. → рус.» · 40%» → перевод запускается сам |
+| Лимит исчерпан (ПК) | «Лимит перевода исчерпан, попробуйте завтра» (`warn`, значок паузы) | — (кнопка не повторяется до следующего дня) |
+| Ошибка сети | «Не удалось перевести: нет сети» (`bad`) | «Повторить» |
+
+В плеере панель комментариев тёмная, цвета `warn`/`bad` берутся из тёмной темы.
